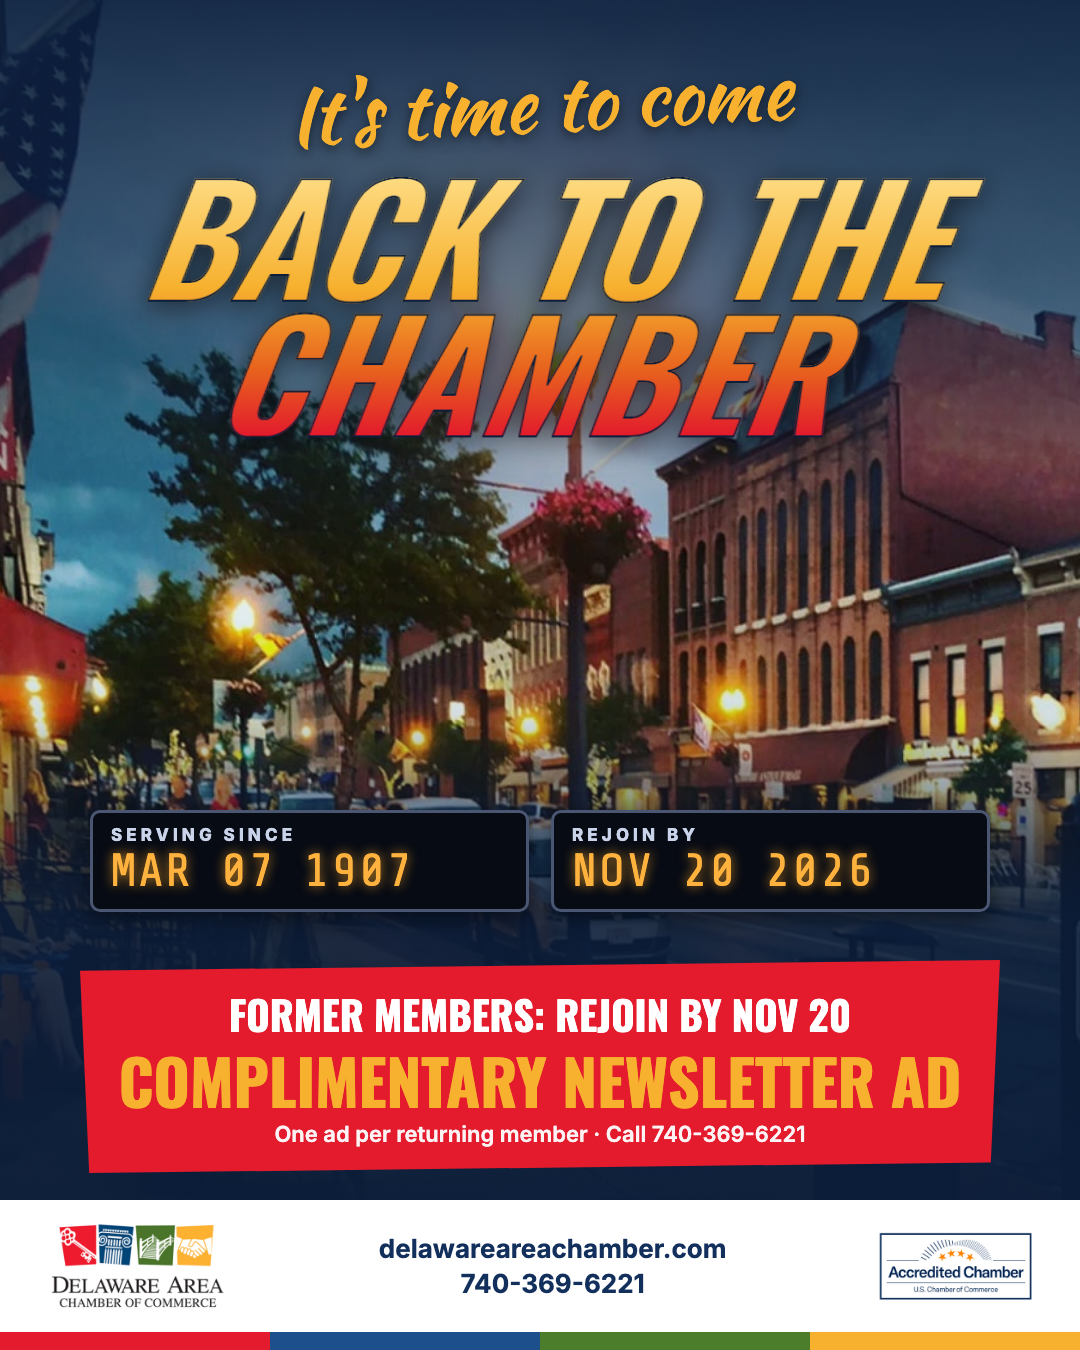
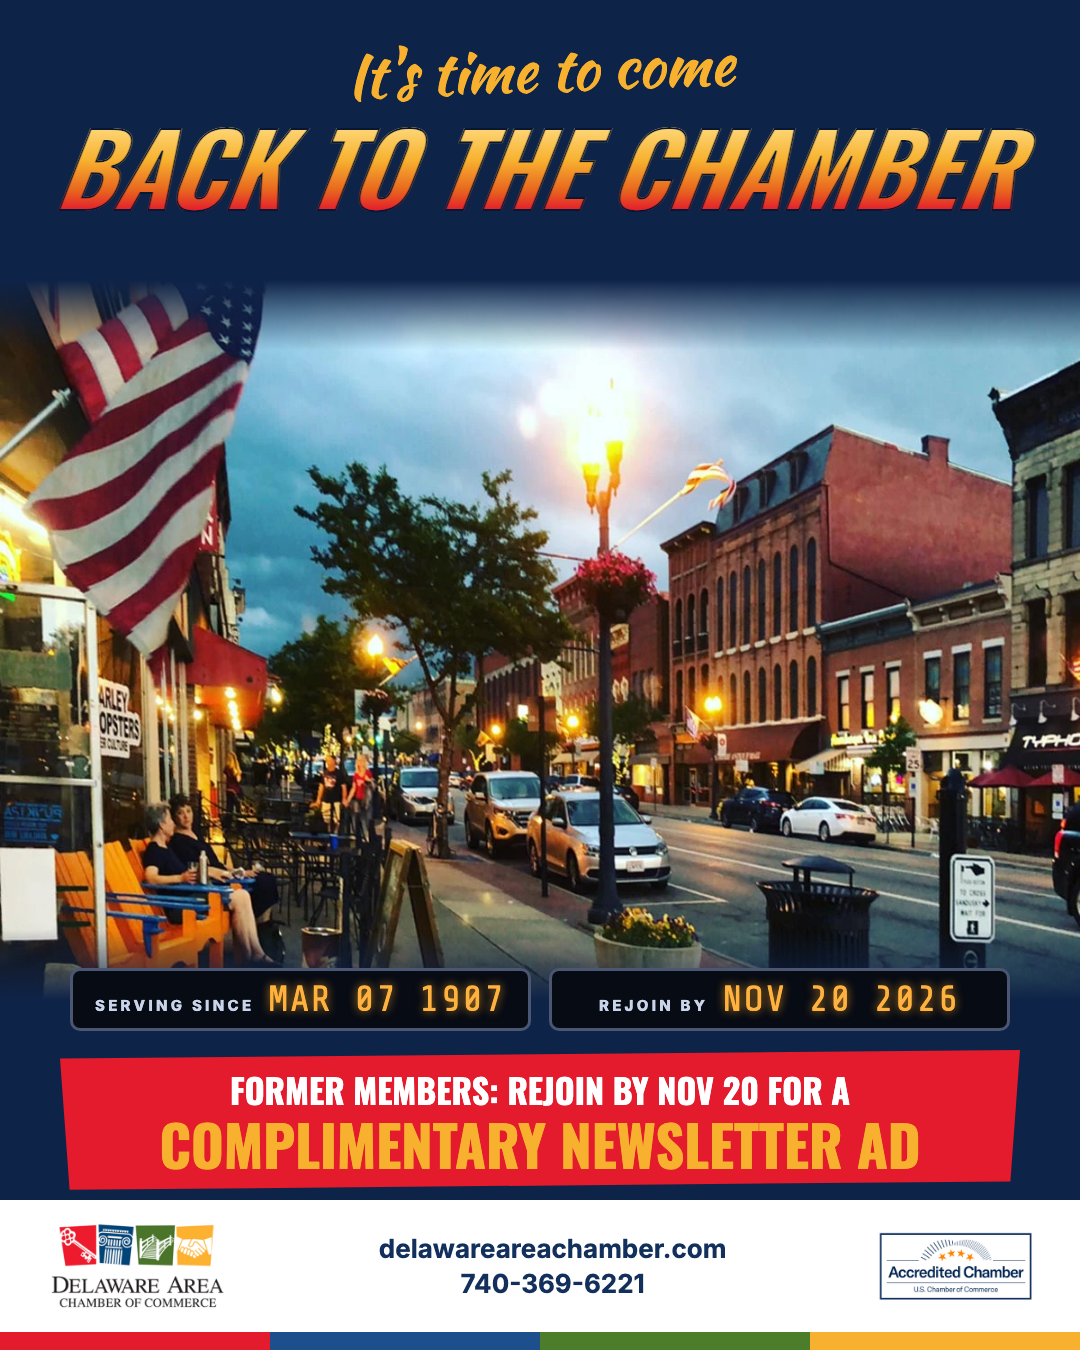
delaware-area-chamber/chamber-day: post 6 full-scene North Sandusky image; image version token v=12 (CLI-774, [JRO] · jaime-m3 · Conrad/Vegas)

diff --git a/delaware-area-chamber/chamber-day/index.html b/delaware-area-chamber/chamber-day/index.html
@@ -25,7 +25,7 @@
 <link rel="preconnect" href="https://fonts.gstatic.com" crossorigin>
 <link href="https://fonts.googleapis.com/css2?family=DM+Sans:ital,opsz,wght@0,9..40,300;0,9..40,400;0,9..40,500;0,9..40,600;0,9..40,700;1,9..40,400&family=DM+Serif+Display:ital@0;1&family=EB+Garamond:ital,wght@0,400;0,500;0,600;1,400;1,500;1,600&family=Unbounded:wght@400;700;900&display=swap" rel="stylesheet">
 <link href="https://fonts.googleapis.com/css2?family=Material+Symbols+Outlined:opsz,wght,FILL,GRAD@20,400,0,0" rel="stylesheet">
-<link rel="preload" as="image" href="./img/01-hero-540.webp?v=bf60499" imagesrcset="./img/01-hero-540.webp?v=bf60499 540w, ./img/01-hero.webp?v=bf60499 1080w" imagesizes="(max-width: 820px) 90vw, 340px">
+<link rel="preload" as="image" href="./img/01-hero-540.webp?v=12" imagesrcset="./img/01-hero-540.webp?v=12 540w, ./img/01-hero.webp?v=12 1080w" imagesizes="(max-width: 820px) 90vw, 340px">
 <style>
 /* ── TOKENS ── */
 :root{
@@ -329,7 +329,7 @@ img{max-width:100%;display:block;}
       </dl>
     </div>
     <figure class="hero__art">
-      <img src="./img/01-hero-540.webp?v=bf60499" srcset="./img/01-hero-540.webp?v=bf60499 540w, ./img/01-hero.webp?v=bf60499 1080w" sizes="(max-width: 820px) 90vw, 340px" width="1080" height="1350" alt="Post 1 graphic: Happy Support Your Local Chamber Day from the Delaware Area Chamber of Commerce" fetchpriority="high">
+      <img src="./img/01-hero-540.webp?v=12" srcset="./img/01-hero-540.webp?v=12 540w, ./img/01-hero.webp?v=12 1080w" sizes="(max-width: 820px) 90vw, 340px" width="1080" height="1350" alt="Post 1 graphic: Happy Support Your Local Chamber Day from the Delaware Area Chamber of Commerce" fetchpriority="high">
     </figure>
   </div>
 </section>
@@ -420,12 +420,12 @@ img{max-width:100%;display:block;}
       <article class="post" id="post-1">
         <div class="post__media">
           <figure class="post__fig">
-            <img src="./img/01-hero-540.webp?v=bf60499" srcset="./img/01-hero-540.webp?v=bf60499 540w, ./img/01-hero.webp?v=bf60499 1080w" sizes="(max-width: 820px) 90vw, 340px" width="1080" height="1350" loading="lazy" alt="Post 1 Facebook graphic: Happy Support Your Local Chamber Day">
-            <figcaption><span>Facebook, 4:5</span><a class="post__dl" href="./downloads/01-hero.png?v=bf60499" download><span class="material-symbols-outlined" aria-hidden="true">download</span>Download image</a></figcaption>
+            <img src="./img/01-hero-540.webp?v=12" srcset="./img/01-hero-540.webp?v=12 540w, ./img/01-hero.webp?v=12 1080w" sizes="(max-width: 820px) 90vw, 340px" width="1080" height="1350" loading="lazy" alt="Post 1 Facebook graphic: Happy Support Your Local Chamber Day">
+            <figcaption><span>Facebook, 4:5</span><a class="post__dl" href="./downloads/01-hero.png?v=12" download><span class="material-symbols-outlined" aria-hidden="true">download</span>Download image</a></figcaption>
           </figure>
           <figure class="post__fig">
-            <img src="./img/01b-hero-linkedin-540.webp?v=bf60499" srcset="./img/01b-hero-linkedin-540.webp?v=bf60499 540w, ./img/01b-hero-linkedin.webp?v=bf60499 1080w" sizes="(max-width: 820px) 90vw, 340px" width="1080" height="565" loading="lazy" alt="Post 1 LinkedIn and Google graphic: Happy Support Your Local Chamber Day">
-            <figcaption><span>LinkedIn + Google</span><a class="post__dl" href="./downloads/01b-hero-linkedin.png?v=bf60499" download><span class="material-symbols-outlined" aria-hidden="true">download</span>Download image</a></figcaption>
+            <img src="./img/01b-hero-linkedin-540.webp?v=12" srcset="./img/01b-hero-linkedin-540.webp?v=12 540w, ./img/01b-hero-linkedin.webp?v=12 1080w" sizes="(max-width: 820px) 90vw, 340px" width="1080" height="565" loading="lazy" alt="Post 1 LinkedIn and Google graphic: Happy Support Your Local Chamber Day">
+            <figcaption><span>LinkedIn + Google</span><a class="post__dl" href="./downloads/01b-hero-linkedin.png?v=12" download><span class="material-symbols-outlined" aria-hidden="true">download</span>Download image</a></figcaption>
           </figure>
         </div>
         <div class="post__body">
@@ -453,8 +453,8 @@ Learn more at delawareareachamber.com or call our office at <span class="nowrap"
       <article class="post" id="post-2">
         <div class="post__media">
           <figure class="post__fig">
-            <img src="./img/02-why-member-540.webp?v=bf60499" srcset="./img/02-why-member-540.webp?v=bf60499 540w, ./img/02-why-member.webp?v=bf60499 1080w" sizes="(max-width: 820px) 90vw, 340px" width="1080" height="1350" loading="lazy" alt="Post 2 graphic: Why are you a member?">
-            <figcaption><span>Facebook, 4:5</span><a class="post__dl" href="./downloads/02-why-member.png?v=bf60499" download><span class="material-symbols-outlined" aria-hidden="true">download</span>Download image</a></figcaption>
+            <img src="./img/02-why-member-540.webp?v=12" srcset="./img/02-why-member-540.webp?v=12 540w, ./img/02-why-member.webp?v=12 1080w" sizes="(max-width: 820px) 90vw, 340px" width="1080" height="1350" loading="lazy" alt="Post 2 graphic: Why are you a member?">
+            <figcaption><span>Facebook, 4:5</span><a class="post__dl" href="./downloads/02-why-member.png?v=12" download><span class="material-symbols-outlined" aria-hidden="true">download</span>Download image</a></figcaption>
           </figure>
         </div>
         <div class="post__body">
@@ -478,8 +478,8 @@ Members, why are you part of the Delaware Area Chamber of Commerce? Is it the co
       <article class="post" id="post-3">
         <div class="post__media">
           <figure class="post__fig">
-            <img src="./img/03-momentum-540.webp?v=bf60499" srcset="./img/03-momentum-540.webp?v=bf60499 540w, ./img/03-momentum.webp?v=bf60499 1080w" sizes="(max-width: 820px) 90vw, 340px" width="1080" height="1350" loading="lazy" alt="Post 3 graphic: 13 new members joined last month">
-            <figcaption><span>Facebook, 4:5</span><a class="post__dl" href="./downloads/03-momentum.png?v=bf60499" download><span class="material-symbols-outlined" aria-hidden="true">download</span>Download image</a></figcaption>
+            <img src="./img/03-momentum-540.webp?v=12" srcset="./img/03-momentum-540.webp?v=12 540w, ./img/03-momentum.webp?v=12 1080w" sizes="(max-width: 820px) 90vw, 340px" width="1080" height="1350" loading="lazy" alt="Post 3 graphic: 13 new members joined last month">
+            <figcaption><span>Facebook, 4:5</span><a class="post__dl" href="./downloads/03-momentum.png?v=12" download><span class="material-symbols-outlined" aria-hidden="true">download</span>Download image</a></figcaption>
           </figure>
         </div>
         <div class="post__body">
@@ -507,20 +507,20 @@ Interested in joining? Visit delawareareachamber.com or call <span class="nowrap
         <div class="post__media">
           <ul class="carousel" tabindex="0" aria-label="Post 4 carousel, 4 slides">
             <li><figure class="post__fig">
-              <img src="./img/04a-edu-cover-540.webp?v=bf60499" srcset="./img/04a-edu-cover-540.webp?v=bf60499 540w, ./img/04a-edu-cover.webp?v=bf60499 1080w" sizes="300px" width="1080" height="1350" loading="lazy" alt="Post 4, slide 1: More than networking">
-              <figcaption><span>Slide 1</span><a class="post__dl" href="./downloads/04a-edu-cover.png?v=bf60499" download><span class="material-symbols-outlined" aria-hidden="true">download</span>Download image</a></figcaption>
+              <img src="./img/04a-edu-cover-540.webp?v=12" srcset="./img/04a-edu-cover-540.webp?v=12 540w, ./img/04a-edu-cover.webp?v=12 1080w" sizes="300px" width="1080" height="1350" loading="lazy" alt="Post 4, slide 1: More than networking">
+              <figcaption><span>Slide 1</span><a class="post__dl" href="./downloads/04a-edu-cover.png?v=12" download><span class="material-symbols-outlined" aria-hidden="true">download</span>Download image</a></figcaption>
             </figure></li>
             <li><figure class="post__fig">
-              <img src="./img/04b-edu-supervisor-540.webp?v=bf60499" srcset="./img/04b-edu-supervisor-540.webp?v=bf60499 540w, ./img/04b-edu-supervisor.webp?v=bf60499 1080w" sizes="300px" width="1080" height="1350" loading="lazy" alt="Post 4, slide 2: Supervisor Six Pack 2.0">
-              <figcaption><span>Slide 2</span><a class="post__dl" href="./downloads/04b-edu-supervisor.png?v=bf60499" download><span class="material-symbols-outlined" aria-hidden="true">download</span>Download image</a></figcaption>
+              <img src="./img/04b-edu-supervisor-540.webp?v=12" srcset="./img/04b-edu-supervisor-540.webp?v=12 540w, ./img/04b-edu-supervisor.webp?v=12 1080w" sizes="300px" width="1080" height="1350" loading="lazy" alt="Post 4, slide 2: Supervisor Six Pack 2.0">
+              <figcaption><span>Slide 2</span><a class="post__dl" href="./downloads/04b-edu-supervisor.png?v=12" download><span class="material-symbols-outlined" aria-hidden="true">download</span>Download image</a></figcaption>
             </figure></li>
             <li><figure class="post__fig">
-              <img src="./img/04c-edu-peer-540.webp?v=bf60499" srcset="./img/04c-edu-peer-540.webp?v=bf60499 540w, ./img/04c-edu-peer.webp?v=bf60499 1080w" sizes="300px" width="1080" height="1350" loading="lazy" alt="Post 4, slide 3: Peer groups for executives and HR leaders">
-              <figcaption><span>Slide 3</span><a class="post__dl" href="./downloads/04c-edu-peer.png?v=bf60499" download><span class="material-symbols-outlined" aria-hidden="true">download</span>Download image</a></figcaption>
+              <img src="./img/04c-edu-peer-540.webp?v=12" srcset="./img/04c-edu-peer-540.webp?v=12 540w, ./img/04c-edu-peer.webp?v=12 1080w" sizes="300px" width="1080" height="1350" loading="lazy" alt="Post 4, slide 3: Peer groups for executives and HR leaders">
+              <figcaption><span>Slide 3</span><a class="post__dl" href="./downloads/04c-edu-peer.png?v=12" download><span class="material-symbols-outlined" aria-hidden="true">download</span>Download image</a></figcaption>
             </figure></li>
             <li><figure class="post__fig">
-              <img src="./img/04d-edu-safety-540.webp?v=bf60499" srcset="./img/04d-edu-safety-540.webp?v=bf60499 540w, ./img/04d-edu-safety.webp?v=bf60499 1080w" sizes="300px" width="1080" height="1350" loading="lazy" alt="Post 4, slide 4: Delaware Area Safety Council">
-              <figcaption><span>Slide 4</span><a class="post__dl" href="./downloads/04d-edu-safety.png?v=bf60499" download><span class="material-symbols-outlined" aria-hidden="true">download</span>Download image</a></figcaption>
+              <img src="./img/04d-edu-safety-540.webp?v=12" srcset="./img/04d-edu-safety-540.webp?v=12 540w, ./img/04d-edu-safety.webp?v=12 1080w" sizes="300px" width="1080" height="1350" loading="lazy" alt="Post 4, slide 4: Delaware Area Safety Council">
+              <figcaption><span>Slide 4</span><a class="post__dl" href="./downloads/04d-edu-safety.png?v=12" download><span class="material-symbols-outlined" aria-hidden="true">download</span>Download image</a></figcaption>
             </figure></li>
           </ul>
           <p class="carousel-hint"><span class="material-symbols-outlined" aria-hidden="true">swipe</span>Scroll sideways to see all 4 slides</p>
@@ -544,8 +544,8 @@ Swipe through to learn more, and reach out to our office to get your team involv
       <article class="post" id="post-5">
         <div class="post__media">
           <figure class="post__fig">
-            <img src="./img/05-next-gen-540.webp?v=bf60499" srcset="./img/05-next-gen-540.webp?v=bf60499 540w, ./img/05-next-gen.webp?v=bf60499 1080w" sizes="(max-width: 820px) 90vw, 340px" width="1080" height="1350" loading="lazy" alt="Post 5 graphic: The next generation">
-            <figcaption><span>Facebook, 4:5</span><a class="post__dl" href="./downloads/05-next-gen.png?v=bf60499" download><span class="material-symbols-outlined" aria-hidden="true">download</span>Download image</a></figcaption>
+            <img src="./img/05-next-gen-540.webp?v=12" srcset="./img/05-next-gen-540.webp?v=12 540w, ./img/05-next-gen.webp?v=12 1080w" sizes="(max-width: 820px) 90vw, 340px" width="1080" height="1350" loading="lazy" alt="Post 5 graphic: The next generation">
+            <figcaption><span>Facebook, 4:5</span><a class="post__dl" href="./downloads/05-next-gen.png?v=12" download><span class="material-symbols-outlined" aria-hidden="true">download</span>Download image</a></figcaption>
           </figure>
         </div>
         <div class="post__body">
@@ -567,8 +567,8 @@ We're also excited about what's next! Delaware County Young Professionals welcom
       <article class="post" id="post-6">
         <div class="post__media">
           <figure class="post__fig">
-            <img src="./img/06-back-to-chamber-540.webp?v=bf60499" srcset="./img/06-back-to-chamber-540.webp?v=bf60499 540w, ./img/06-back-to-chamber.webp?v=bf60499 1080w" sizes="(max-width: 820px) 90vw, 340px" width="1080" height="1350" loading="lazy" alt="Post 6 graphic: Back to the Chamber headline over a photo of North Sandusky Street in downtown Delaware at dusk, with the rejoin offer">
-            <figcaption><span>Facebook, 4:5</span><a class="post__dl" href="./downloads/06-back-to-chamber.png?v=bf60499" download><span class="material-symbols-outlined" aria-hidden="true">download</span>Download image</a></figcaption>
+            <img src="./img/06-back-to-chamber-540.webp?v=12" srcset="./img/06-back-to-chamber-540.webp?v=12 540w, ./img/06-back-to-chamber.webp?v=12 1080w" sizes="(max-width: 820px) 90vw, 340px" width="1080" height="1350" loading="lazy" alt="Post 6 graphic: Back to the Chamber headline over a photo of North Sandusky Street in downtown Delaware at dusk, with the rejoin offer">
+            <figcaption><span>Facebook, 4:5</span><a class="post__dl" href="./downloads/06-back-to-chamber.png?v=12" download><span class="material-symbols-outlined" aria-hidden="true">download</span>Download image</a></figcaption>
           </figure>
         </div>
         <div class="post__body">
